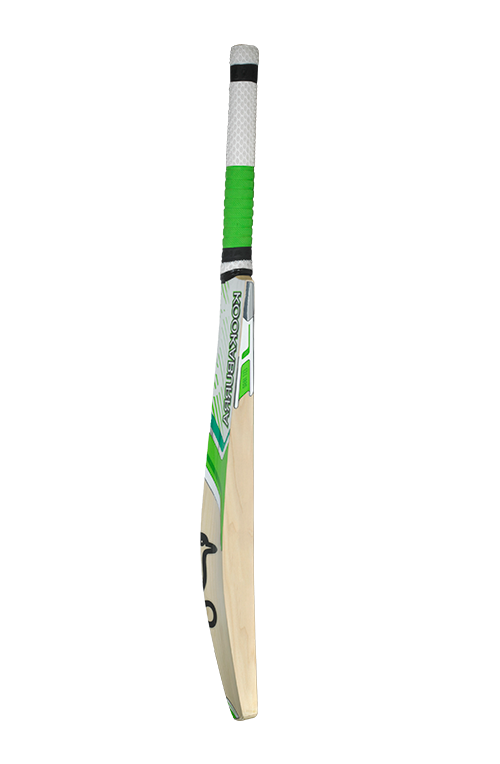
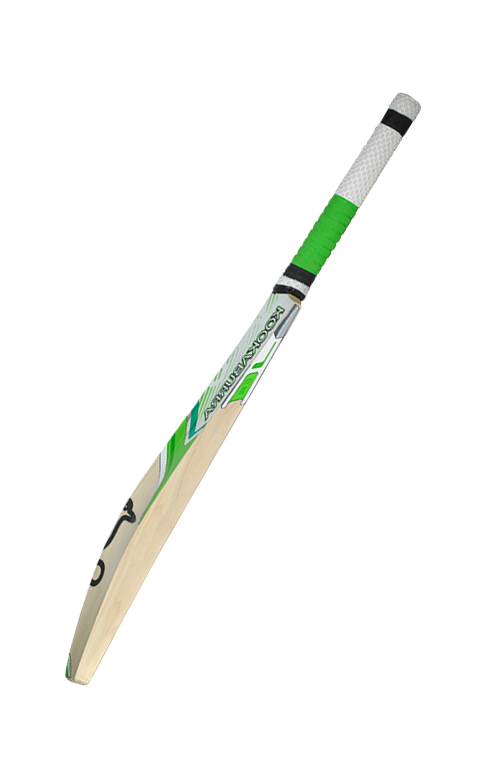
ball-hitting-done

Changed region(s): [[0.12, 0.0602, 0.84, 0.9634]]

diff --git a/ball-hitting.html b/ball-hitting.html
@@ -6,11 +6,42 @@
     <meta http-equiv="X-UA-Compatible" content="IE=edge">
     <meta name="viewport" content="width=device-width, initial-scale=1.0">
     <title>cricket</title>
+    <style>
+        .field {
+            outline: 1px solid red;
+        }
+
+        .bat {
+            transition: transform 0.25s ease-in;
+        }
+
+        .field:hover .bat {
+            transform: rotate(-40deg);
+            transform-origin: top right;
+        }
+
+        .field:hover .ball {
+            transform: translate(1000px, -200px);
+        }
+
+        .ball {
+            background-image: linear-gradient(45deg, red, brown);
+            width: 75px;
+            height: 75px;
+            border-radius: 50%;
+            position: relative;
+            left: 608px;
+            bottom: 100px;
+            transition: transform 0.4s ease-out 0.3s;
+
+        }
+    </style>
 </head>
 
 <body>
     <div class="field">
-        <img src="images/bat.png" alt="a-cricket-bat">
+        <img class="bat" src="images/bat.png" alt="a-cricket-bat">
+        <div class="ball"></div>
     </div>
 </body>
 
